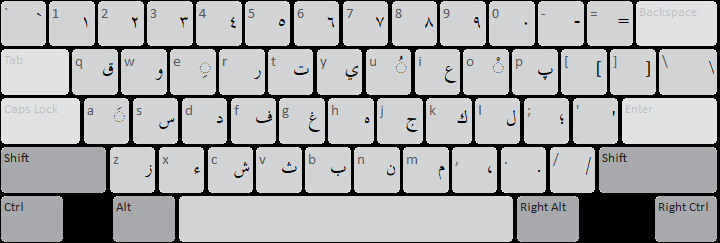
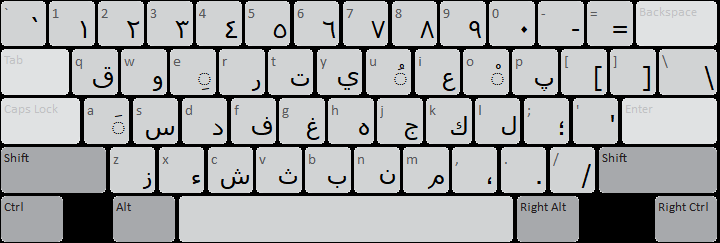
[sil_arabic_phonetic] Updated files per PR feedback

diff --git a/release/sil/sil_arabic_phonetic/source/welcome/welcome.htm b/release/sil/sil_arabic_phonetic/source/welcome/welcome.htm
@@ -44,6 +44,8 @@
 </li>
 <li>To add a Shadda (e.g. shown here on Beh, <span class='a'>بّ</span>), type the consonant twice</li>
 <li>To type Allah (<span class='a'>لله</span>), type <b>llh</b></li>
+<li>Type any digit + &gt; to get U+066C (thousands separator)</li>
+<li>Type any digit + &lt; to get U+066B (decimal separator)</li>
 <li>To cycle through different variations of a letter, use the slash key (<b>/</b>).  This is currently supported for:
   <ul>
    <li>alef/ain/fatha (<b>a/</b>)</li>

diff --git a/release/sil/sil_arabic_phonetic/source/help/sil_arabic_phonetic.php b/release/sil/sil_arabic_phonetic/source/help/sil_arabic_phonetic.php
@@ -6,14 +6,17 @@
 <p>This is a keyboard for entering Arabic phonetically using a standard English keyboard.</p>
 
 <h2>Keyboard Layout</h2>
-<h3>Desktop Keyboard Layout</h2>
-<div id='osk' data-states='default shift'>
+
+<div id='osk-container'>
+  <h3>Desktop Keyboard Layout</h3>
+  <div id='osk' data-states='default shift'></div>
 </div>
 
-<h3>Mobile/Tablet Keyboard Layout</h3>
-<div id='osk-tablet' data-states='default shift numeric'>
+<div id='osk-tablet-container'>
+  <h3>Mobile/Tablet Keyboard Layout</h3>
+  <div id='osk-tablet' data-states='default numeric'></div>
 </div>
-                                      
+      	                                      
 <h2>Usage Notes</h2>
 
 <p>This keyboard has several shortcuts to make it easier to type phonetically:</p>
@@ -37,6 +40,8 @@
 </li>
 <li>To add a Shadda (e.g. shown here on Beh, <span class='a'>بّ</span>), type the consonant twice</li>
 <li>To type Allah (<span class='a'>لله</span>), type <b>llh</b></li>
+<li>Type any digit + &gt; to get U+066C (thousands separator)</li>
+<li>Type any digit + &lt; to get U+066B (decimal separator)</li>
 <li>To cycle through different variations of a letter, use the slash key (<b>/</b>).  This is currently supported for:
   <ul>
    <li>alef/ain/fatha (<b>a/</b>)</li>
@@ -48,9 +53,3 @@
 </li>
 </ul>
 
-<h2>Release History</h2>
-
-<p>Version 0.2 released 27 February 2009, added some additional documentation.</p>
-<p>Version 0.1 for Keyman Desktop 7.0. Released 30 January 2009.</p>
-       
-</body>

diff --git a/release/sil/sil_arabic_phonetic/LICENSE.md b/release/sil/sil_arabic_phonetic/LICENSE.md
@@ -1,6 +1,6 @@
 The MIT License (MIT)
 
-Copyright (c) 2007-2018 SIL International
+Copyright (c) 2007-2019 SIL International
 
 Permission is hereby granted, free of charge, to any person obtaining a copy
 of this software and associated documentation files (the "Software"), to deal

diff --git a/release/sil/sil_arabic_phonetic/HISTORY.md b/release/sil/sil_arabic_phonetic/HISTORY.md
@@ -1,6 +1,6 @@
 # Arabic Phonetic (SIL) Keyboard Change History
 
-## 1.0 (16 Aug 2018)
+## 1.0 (6 Jan 2019)
 * Source migrated to GitHub
 
 ## 0.2 (27 Feb 2009)
